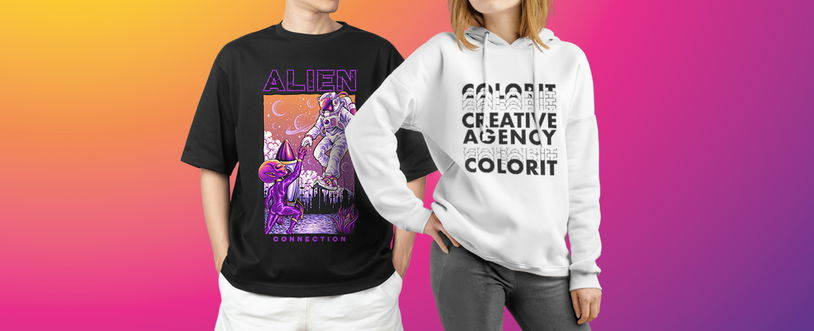
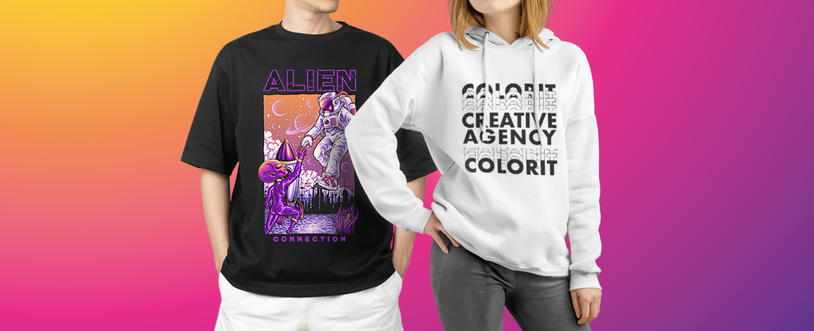
Added bad quality images

Changed region(s): [[0.3071, 0.1813, 0.4607, 0.7553], [0.645, 0.1208, 0.6757, 0.1511]]

diff --git a/resources/views/home.blade.php b/resources/views/home.blade.php
@@ -119,7 +119,7 @@
             <div class="service__row">
                <div class="service__vertical vertical-content">
                   <div class="vertical-content__img">
-                     <a href="{{ route('webDevelopment.lang', ['locale' => __('main.set_lang')]) }}"><img src="{{asset('img/service/site/site_420_520.jpg')}}"
+                     <a href="{{ route('webDevelopment.lang', ['locale' => __('main.set_lang')]) }}"><img src="{{asset('img/service/site/site_310_350.jpg')}}"
                            alt="website development"></a>
                   </div>
                   <div class="vertical-content__link">
